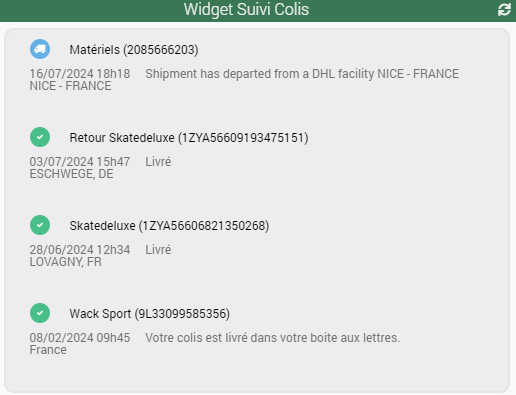
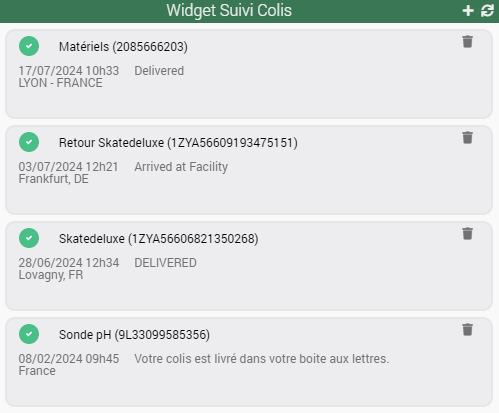
Add and remove parcels from global widget

diff --git a/core/template/dashboard/parcelTracking_global_dashboard_v4.html b/core/template/dashboard/parcelTracking_global_dashboard_v4.html
@@ -1,23 +1,20 @@
-<div id="parcelTracking_widget_ID" class="eqLogic-widget eqLogic parcelTracking_widget parcelTracking_widget_#id# parcelTracking" style="min-width:518px !important; max-width:518px !important; text-align:center; border:#border#; border-radius:#border-radius#; background-color:#background-color#; color:#color#; #style#;" data-eqType="#eqType#" data-translate-category="#translate_category#" data-category="#category#" data-tags="#tags#" data-eqLogic_id="#id#" data-eqLogic_uid="#uid#" data-version="dashboard">
+<div id="parcelTracking_widget_ID" class="eqLogic-widget eqLogic parcelTracking_widget parcelTracking_widget_#id# parcelTracking" style="min-width:500px !important; max-width:500px !important; text-align:center; border:#border#; border-radius:#border-radius#; background-color:#background-color#; color:#color#; #style#;" data-eqType="#eqType#" data-translate-category="#translate_category#" data-category="#category#" data-tags="#tags#" data-eqLogic_id="#id#" data-eqLogic_uid="#uid#" data-version="dashboard">
 
 	<div class="text-center widget-name">
 		<span class="reportModeVisible">#name_display#<span class="object_name">#object_name#</span></span>
 		<a href="#eqLink#" class="reportModeHidden" style="color:var(--eqTitle-color)!important;">#name_display#<span class="object_name">#object_name#</span></a>
-	   	<span class="cmd refresh pull-right cursor" data-cmd_id="#refreshAll_id#" onclick="jeedom.cmd.execute({id: #refreshAll_id#});">
+		<span class="cmd refresh pull-right cursor" data-cmd_id="#refreshAll_id#" onclick="jeedom.cmd.execute({id: #refreshAll_id#});" title="Rafraichir les informations">
 		   <i class="fas fa-sync" style="color:var(--eqTitle-color)!important;"></i>
 	   	</span>
+		   <span class="cmd refresh pull-right cursor" onclick="addParcel()" title="Ajouter un colis">
+			<i class="fas fa-plus" style="color:var(--eqTitle-color)!important;"></i>
+		</span>
 	</div>
 			
 	<div class="container-fluid">
 		
-		<div>
-			
-			<div class="col-xs-12" id="tile" style="width:506px;">
-				<div id="list_states" class="label Cmd#states_id# table_states#id# "></div>				
-			</div>
-					
-		</div>
-		
+		<div id="list_states" class="col-xs-12 label Cmd#states_id# table_states#id# "></div>				
+				
 	</div>
 	
 	#divGraphInfo#
@@ -76,6 +73,7 @@
 			table_html += '<ul class="list-group" style="text-align: left">';
 			jQuery.each(table.parcels,function(key,parcel){
 				if ( parcel.status != null ) { var status = parcel.status;} else { status = ''; }
+				if ( parcel.id != null ) { var id = parcel.id;} else { id = ''; }
 				if ( parcel.name != null ) { var name = parcel.name;} else { name = ''; }
 				if ( parcel.trackingId != null ) { var trackingId = parcel.trackingId;} else { trackingId = ''; }
 				if ( parcel.lastDate != null ) { var lastDate = parcel.lastDate;} else { lastDate = ''; }
@@ -90,7 +88,9 @@
 				else if ( status == 'arrived') { table_html += '<span class="col-xs-1"><img src="plugins/parcelTracking/core/img/status-pickup.png" height="20" title="Arrivé au centre de tri"/></span>'; }
 				else if ( status == 'archive') { table_html += '<span class="col-xs-1"><img src="plugins/parcelTracking/core/img/status-archive.png" height="20" title="Archivé"/></span>'; }
 				else { table_html += '<span class="col-xs-1"><img src="plugins/parcelTracking/core/img/status-delayed.png" height="20" title="Retardé"/></span>'; }
-				table_html += '<span class="col-xs-11 label span-item-title">'+name+' ('+trackingId+')</span>';
+				table_html += '<span class="col-xs-10 label span-item-title">'+name+' ('+trackingId+')</span>';
+				console.log('onclick="removeParcel('+id+',\''+name+'\')"');
+				table_html += '<span class="col-xs-1 fas fa-trash cursor eqLogicAction" onclick="removeParcel('+id+',\''+name+'\')" title="Supprimer le colis"></span>'
 				table_html += '<span class="col-xs-12 label span-item-value">'+lastDate+' '+lastHour+'&nbsp&nbsp&nbsp&nbsp&nbsp'+lastState+'<br>'+lastLocation+'</span>';
 				table_html +=  '</li>';
 			});
@@ -99,12 +99,54 @@
 		}
 
 		//----- Widget height
-		var tileHeight = 5 + 90*totalParcels;
-		var widegtHeight = tileHeight + 35;
-		$('#tile').css('height', tileHeight);
+		var widegtHeight = 96*totalParcels + 30;
 		$('.parcelTracking_widget').css('min-height', widegtHeight);
 		$('.parcelTracking_widget').css('max-height', widegtHeight);
-				
+	
+		//----- Remove parcel
+		function removeParcel(eqLogicId, name) {
+			var check = confirm("Etes-vous sûr de vouloir supprimer le colis " + name + " ?");
+        	if (check == true) {
+				$.ajax({
+					type: "POST",
+					url: "plugins/parcelTracking/core/ajax/parcelTracking.ajax.php",
+					data: {
+						action: "removeParcel",
+						eqLogicId: eqLogicId,
+					},
+					dataType: 'json',
+					error: function (request, status, error) {
+						handleAjaxError(request, status, error);
+					},
+					success: function (data) { 			
+
+						if (data.state != 'ok') {
+							$('#div_alert').showAlert({message: 'Erreur lors de la suppression du colis', level: 'danger'});
+							return;
+						}
+						else  {
+							$('#div_alert').showAlert({message: 'Colis supprimé', level: 'success'});
+						}
+					}
+				});
+			}
+		}
+
+		//----- Add parcel
+		function addParcel() {
+			$('#mod_addParcel').dialog({title: "Ajout Colis"});
+			$('body').append('<div id="mod_addParcel" style="overflow-x: hidden; overflow-y: hidden;"/>');
+							$("#mod_addParcel").dialog({
+									create: function(event, ui) {
+											$(this).closest(".ui-dialog").find(".ui-dialog-titlebar").remove(); }, // Supprime la barre de titre entière
+									autoOpen: false,
+									modal: true,
+									width: 450,
+									height: 152,
+							});
+			$('#mod_addParcel').load('index.php?v=d&plugin=parcelTracking&modal=addParcel.parcelTracking&eqLogic_id='+'#id#').dialog('open');
+		}
+
 	</script>
 
 </div>

diff --git a/core/template/dashboard/parcelTracking_global_dashboard_style_light.css b/core/template/dashboard/parcelTracking_global_dashboard_style_light.css
@@ -3,29 +3,23 @@
 	padding : 0px 0px 0px 0px !important;
 }
 
-.parcelTracking_widget #tile {
-    margin : 3px 3px 3px 3px !important;
-	padding : 0px 0px 0px 0px !important;
+.parcelTracking_widget #list_states {
+	margin : 0px 0px 0px 0px !important;
+	padding : 3px 3px 3px 3px !important;
+	overflow: auto;
+}
+
+.parcelTracking_widget .list-group-item {
+	background-color: transparent !important;
+	height:90px;
+	margin-bottom: 6px;
+	padding: 5px 0px 0px 0px;
 	background-color : rgb(var(--bg-color)) !important;
 	filter : contrast(105%);
 	border : solid;
 	border-width: 2px;
 	border-radius: 10px;
 	border-color: rgb(225,225,225);
-}
-
-.parcelTracking_widget #list_states {
-	width: 506px;
-	margin: 5px 0px;
-	overflow: auto;
-}
-
-.parcelTracking_widget .list-group-item {
-	background-color: transparent !important;
-	height:80px;
-	width:480px;
-	margin-bottom: 0px;
-	padding: 0px 0px 0px 0px;
 }
 
 .parcelTracking_widget .span-item-title {
@@ -38,7 +32,6 @@
 }
 
 .parcelTracking_widget .span-item-value {
-	height: 60px;
 	white-space: normal;
 	vertical-align: middle;
 	font-size : 12px !important;

diff --git a/core/template/dashboard/parcelTracking_global_dashboard_style_dark.css b/core/template/dashboard/parcelTracking_global_dashboard_style_dark.css
@@ -3,29 +3,23 @@
 	padding : 0px 0px 0px 0px !important;
 }
 
-.parcelTracking_widget #tile {
-    margin : 3px 3px 3px 3px !important;
-	padding : 0px 0px 0px 0px !important;
+.parcelTracking_widget #list_states {
+	margin : 0px 0px 0px 0px !important;
+	padding : 3px 3px 3px 3px !important;
+	overflow: auto;
+}
+
+.parcelTracking_widget .list-group-item {
+	background-color: transparent !important;
+	height:90px;
+	margin-bottom: 6px;
+	padding: 5px 0px 0px 0px;
 	background-color : rgb(var(--bg-color)) !important;
 	filter : contrast(80%);
 	border : solid;
 	border-width: 2px;
 	border-radius: 10px;
 	border-color: rgb(30,30,30);
-}
-
-.parcelTracking_widget #list_states {
-	width: 506px;
-	margin: 5px 0px;
-	overflow: auto;
-}
-
-.parcelTracking_widget .list-group-item {
-	background-color: transparent !important;
-	height:80px;
-	width:480px;
-	margin-bottom: 0px;
-	padding: 0px 0px 0px 0px;
 }
 
 .parcelTracking_widget .span-item-title {
@@ -38,7 +32,6 @@
 }
 
 .parcelTracking_widget .span-item-value {
-	height: 60px;
 	white-space: normal;
 	vertical-align: middle;
 	font-size : 12px !important;

diff --git a/core/template/dashboard/parcelTracking_dashboard_v4.html b/core/template/dashboard/parcelTracking_dashboard_v4.html
@@ -3,7 +3,7 @@
 	<div class="text-center widget-name">
 		<span class="reportModeVisible">#name_display#<span class="object_name">#object_name#</span></span>
 	   	<a href="#eqLink#" class="reportModeHidden" style="color:var(--eqTitle-color)!important;">#name_display#<span class="object_name">#object_name#</span></a>
-	   	<span class="cmd refresh pull-right cursor" data-cmd_id="#refresh_id#" onclick="jeedom.cmd.execute({id: #refresh_id#});">
+	   	<span class="cmd refresh pull-right cursor" data-cmd_id="#refresh_id#" onclick="jeedom.cmd.execute({id: #refresh_id#});" title="Rafraichir les informations">
 		   <i class="fas fa-sync" style="color:var(--eqTitle-color)!important;"></i>
 	   	</span>
 	</div>

diff --git a/desktop/modal/addParcel.parcelTracking.php b/desktop/modal/addParcel.parcelTracking.php
@@ -1,0 +1,91 @@
+<?php
+
+/* This file is part of Jeedom.
+*
+* Jeedom is free software: you can redistribute it and/or modify
+* it under the terms of the GNU General Public License as published by
+* the Free Software Foundation, either version 3 of the License, or
+* (at your option) any later version.
+*
+* Jeedom is distributed in the hope that it will be useful,
+* but WITHOUT ANY WARRANTY; without even the implied warranty of
+* MERCHANTABILITY or FITNESS FOR A PARTICULAR PURPOSE. See the
+* GNU General Public License for more details.
+*
+* You should have received a copy of the GNU General Public License
+* along with Jeedom. If not, see <http://www.gnu.org/licenses/>.
+*/
+
+include_file('core', 'authentification', 'php');
+
+if (!isConnect()) {
+    throw new Exception('{{401 - Accès non autorisé}}');
+}
+
+$eqLogic = eqLogic::byId(init('eqLogic_id'));
+
+?>
+
+<div class="modal-content">
+    
+	<div class="row" style="margin-bottom: 5px; width: 450px">
+		<div class="col-sm-12">
+			<!--<label class="form-label">Nom :</label>-->
+			<input id="name" type="text" class="form-control" placeholder="Nom du colis"/>
+		</div>
+	</div>
+					
+	<div class="row" style="margin-bottom: 25px; width: 450px">
+		<div class="col-sm-12">
+			<!--<label class="form-label">Numéro de suivi :</label>-->
+			<input id="trackingId" type="text" class="form-control" placeholder="Numéro de suivi du colis"/>
+		</div>
+	</div>
+					 
+	<div class="row" style="width: 450px;">
+		<div class="col-sm-12">
+			<input id="btn_add" type="submit" class="btn btn-primary" style="float: right; width: 125px" value="Ajouter"/>
+		</div>
+	</div>
+
+</div>
+	
+<script>
+		
+	$('#btn_add').click( function(){
+			
+		var name = $('#name').val();
+		var trackingId = $('#trackingId').val();
+					
+		if ( name == '' || trackingId == '' )  {
+			$('#div_alert').showAlert({message: '{{Erreur ! Les champs ne peuvent pas être vides}}', level: 'danger'});
+			return;
+		}
+			
+		$.ajax({
+			type: "POST",
+			url: "plugins/parcelTracking/core/ajax/parcelTracking.ajax.php", 
+			data: {
+				action: "addParcel",
+				name: name,
+				trackingId: trackingId,
+			},
+			dataType: 'json',
+			error: function (request, status, error) {
+				handleAjaxError(request, status, error);
+			},
+			success: function (data) { 			
+				if (data.state != 'ok') {
+					$('#div_alert').showAlert({message: 'Erreur lors la création du colis', level: 'danger'});
+					return;
+				}
+				else  {
+					$('#div_alert').showAlert({message: 'Colis créé', level: 'success'});
+					$('#mod_addParcel').dialog( "close" );
+				}
+			}
+		})		
+			
+	});
+	
+</script>

diff --git a/core/class/parcelTracking.class.php b/core/class/parcelTracking.class.php
@@ -158,6 +158,7 @@ class parcelTracking extends eqLogic {
                 $status = $parcelTracking->getCmd('info','status')->execCmd();
                 $lastState = json_decode($parcelTracking->getCmd('info','states')->execCmd(),true);
                 $list['parcels'][] = [ 
+                    'id' => $parcelTracking->getId(),
                     'trackingId' => $parcelTracking->getConfiguration('trackingId'),
                     'name' => $parcelTracking->getName(),
                     'status' => $status,
@@ -182,6 +183,44 @@ class parcelTracking extends eqLogic {
                 $cmdRefresh->execCmd();
             }
         }	
+    }
+
+    public static function removeParcel($eqLogicId)
+    {
+        $eqLogic = eqLogic::byId($eqLogicId);
+        if( is_object($eqLogic) ) {
+            $eqLogic->remove();
+            log::add('parcelTracking', 'debug', 'Remove parcel (Id : '.$eqLogicId.' - name : '.$eqLogic->getName().')');
+        }
+
+        foreach (eqLogic::byType('parcelTracking', true) as $parcelTracking) {		   
+            if ( $parcelTracking->getConfiguration('eqLogicType') == 'global') {
+                $parcelTracking->refreshWidget();
+                break;		
+            }
+        }	
+    }
+
+    public static function addParcel($name, $trackingId)
+    {
+        $parcel = new parcelTracking();
+        $parcel->setEqType_name('parcelTracking');
+        $parcel->setIsEnable(1);
+        if ( config::byKey('defaultWidget', 'parcelTracking') == "one" || config::byKey('defaultWidget', 'parcelTracking') == "none") { $parcel->setIsVisible(0); }
+        else { $parcel->setIsVisible(1); }
+        $parcel->setName($name);
+        $parcel->setConfiguration('trackingId', $trackingId);
+        $parcel->save();
+        log::add('parcelTracking', 'debug', 'Add parcel (name : '.$name.' - trackingId : '.$trackingId.')');
+
+        parcelTracking::synchronize($trackingId);
+        
+        foreach (eqLogic::byType('parcelTracking', true) as $parcelTracking) {		   
+            if ( $parcelTracking->getConfiguration('eqLogicType') == 'global') {
+                $parcelTracking->refreshWidget();
+                break;		
+            }
+        }
     }
 
 

diff --git a/core/ajax/parcelTracking.ajax.php b/core/ajax/parcelTracking.ajax.php
@@ -19,7 +19,7 @@ try {
     require_once dirname(__FILE__) . '/../../../../core/php/core.inc.php';
     include_file('core', 'authentification', 'php');
 
-    if (!isConnect('admin')) {
+    if (!isConnect()) {
         throw new Exception(__('401 - Accès non autorisé', __FILE__));
     }
 
@@ -30,6 +30,20 @@ try {
     
     ajax::init();
 
+    if (init('action') == 'removeParcel') {
+		$result = parcelTracking::removeParcel(init('eqLogicId'));
+		ajax::success($result);
+	}
+
+    if (init('action') == 'addParcel') {
+		$result = parcelTracking::addParcel(init('name'), init('trackingId'));
+		ajax::success($result);
+	}
+
+    if (!isConnect('admin')) {
+        throw new Exception(__('401 - Accès non autorisé', __FILE__));
+    }
+    
     if (init('action') == 'synchronize') {
 		$result = parcelTracking::synchronize(init('trackingId'));
 		ajax::success($result);
